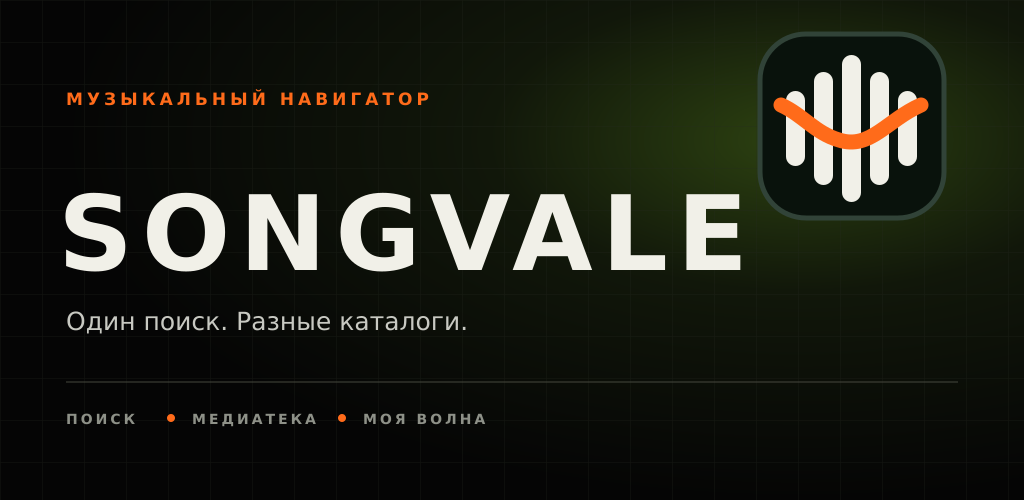
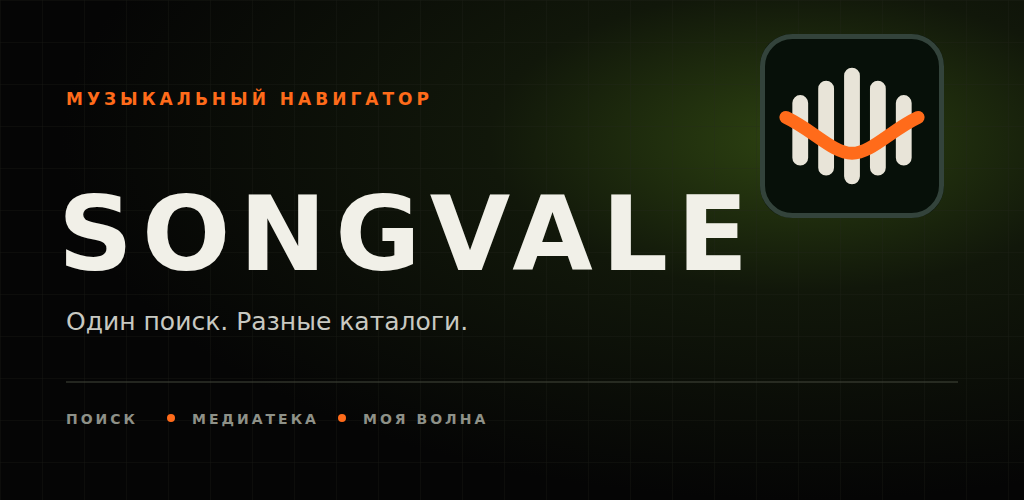
Unify SONGVALE sound and valley identity across apps

diff --git a/README.ru.md b/README.ru.md
@@ -117,7 +117,7 @@ uvicorn backend.api.main:app --reload
 
 ## Проверенное качество релиза
 
-Релиз `v2.5.11` автоматически собирается из `main` через GitHub Actions.
+Релиз `v2.5.12` автоматически собирается из `main` через GitHub Actions.
 
 - Python-тесты проверяют поиск, ranking, matching, policy, надёжность, безопасность, визуальную идентичность и desktop-упаковку.
 - Браузерные сценарии проверяют поиск, восстановление воспроизведения, перенос медиатеки, адаптивность, автономную оболочку, объединение аккаунтов, конфликты, выход и восстановление пароля.

diff --git a/RELEASE.md b/RELEASE.md
@@ -79,7 +79,7 @@ Open `https://YOUR-AWUN-API/` after deployment.
 - Disabled providers are visibly marked `NOT CONNECTED` and are not sent in a
   search request.
 - Opening `/?q=artist%20track` runs a shareable search.
-- The header renders `/static/brand/songvale-mark.svg` and remains crisp at mobile and desktop sizes.
+- The header renders `/static/brand/songvale-glyph.svg`; the favicon and launch icons use the matching sound-and-valley mark.
 - Switching **INTERFACE → MINIMAL** removes telemetry and source chrome while keeping search, results and playback usable.
 - Clicking a result opens a Track Story without starting or interrupting playback.
 - A known LRCLIB song displays plain or synced lyrics from `/api/v1/track-details`.

diff --git a/CHANGELOG.md b/CHANGELOG.md
@@ -2,6 +2,17 @@
 
 All notable user-visible changes are documented here. SONGVALE follows semantic versioning through the root `VERSION` file.
 
+## [2.5.12] - 2026-10-04
+
+### Improved
+
+- Replaced the generic V with a compact SONGVALE mark: five sound bars and a warm valley line. The restrained wordmark stays free of a tiny tagline.
+- Applied the same mark to the website, PWA, Windows executable, iPhone and Android icons, and Play Store artwork.
+
+### Testing
+
+- Checked the mark in desktop and phone headers, icon sizes, and both themes.
+
 ## [2.5.11] - 2026-10-03
 
 ### Fixed

diff --git a/mobile/README.md b/mobile/README.md
@@ -11,8 +11,8 @@ screen if every configured SONGVALE endpoint is unavailable.
 Google Play identity:
 
 - application ID: `com.loro66.awun`;
-- version: read from the repository `VERSION` file (`2.5.11` currently);
-- version code: derived from `VERSION` by Gradle (`2051100` currently);
+- version: read from the repository `VERSION` file (`2.5.12` currently);
+- version code: derived from `VERSION` by Gradle (`2051200` currently);
 - minimum Android: 7.0 / API 24;
 - compile and target SDK: Android 16 / API 36;
 - release format: signed Android App Bundle (`.aab`);

diff --git a/README.md b/README.md
@@ -117,7 +117,7 @@ Open `http://127.0.0.1:8000`. Optional provider credentials and deployment setti
 
 ## Verified release quality
 
-Release `v2.5.11` is built from `main` by GitHub Actions.
+Release `v2.5.12` is built from `main` by GitHub Actions.
 
 - Python tests cover search, ranking, matching, policy, reliability, security, visual identity and desktop packaging.
 - Playwright scenarios exercise progressive search, playback recovery, library transfer, responsive layouts, offline shell launch and account merge, conflict, sign-out and recovery flows.
